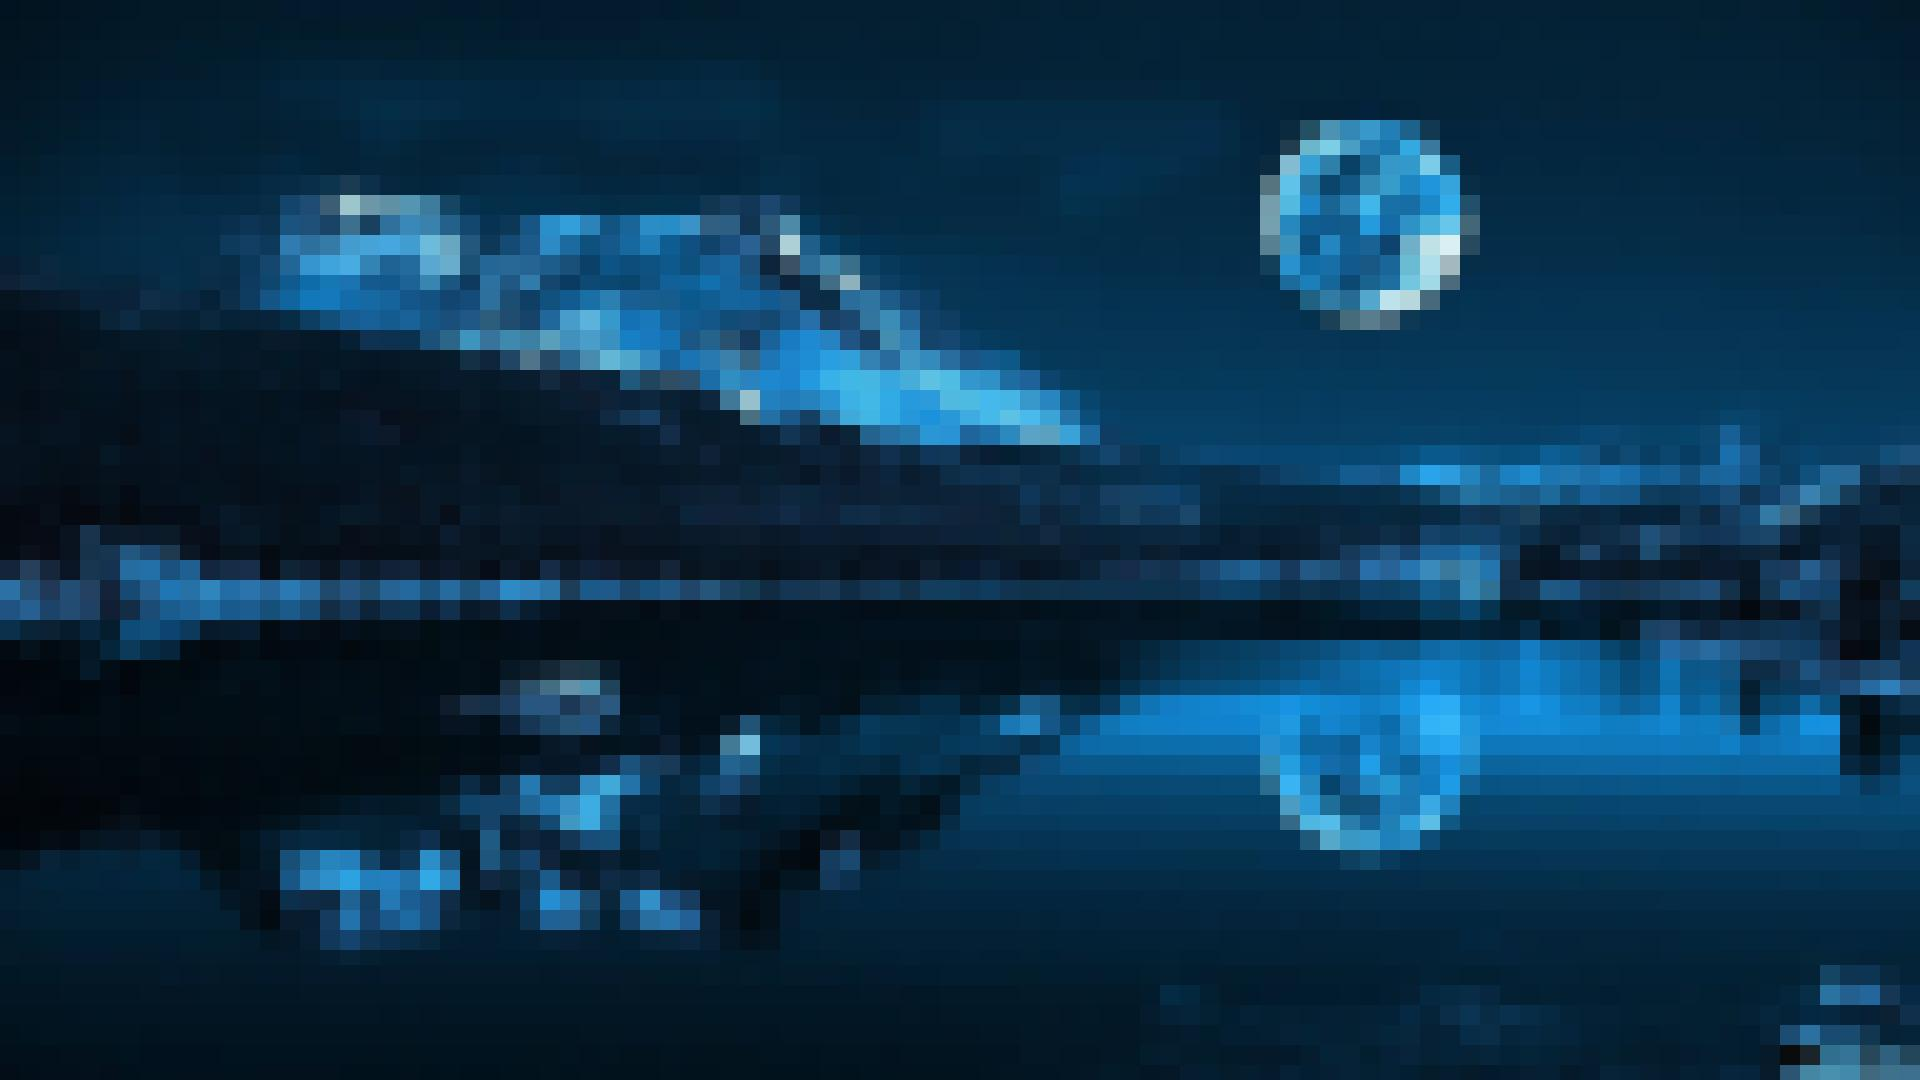
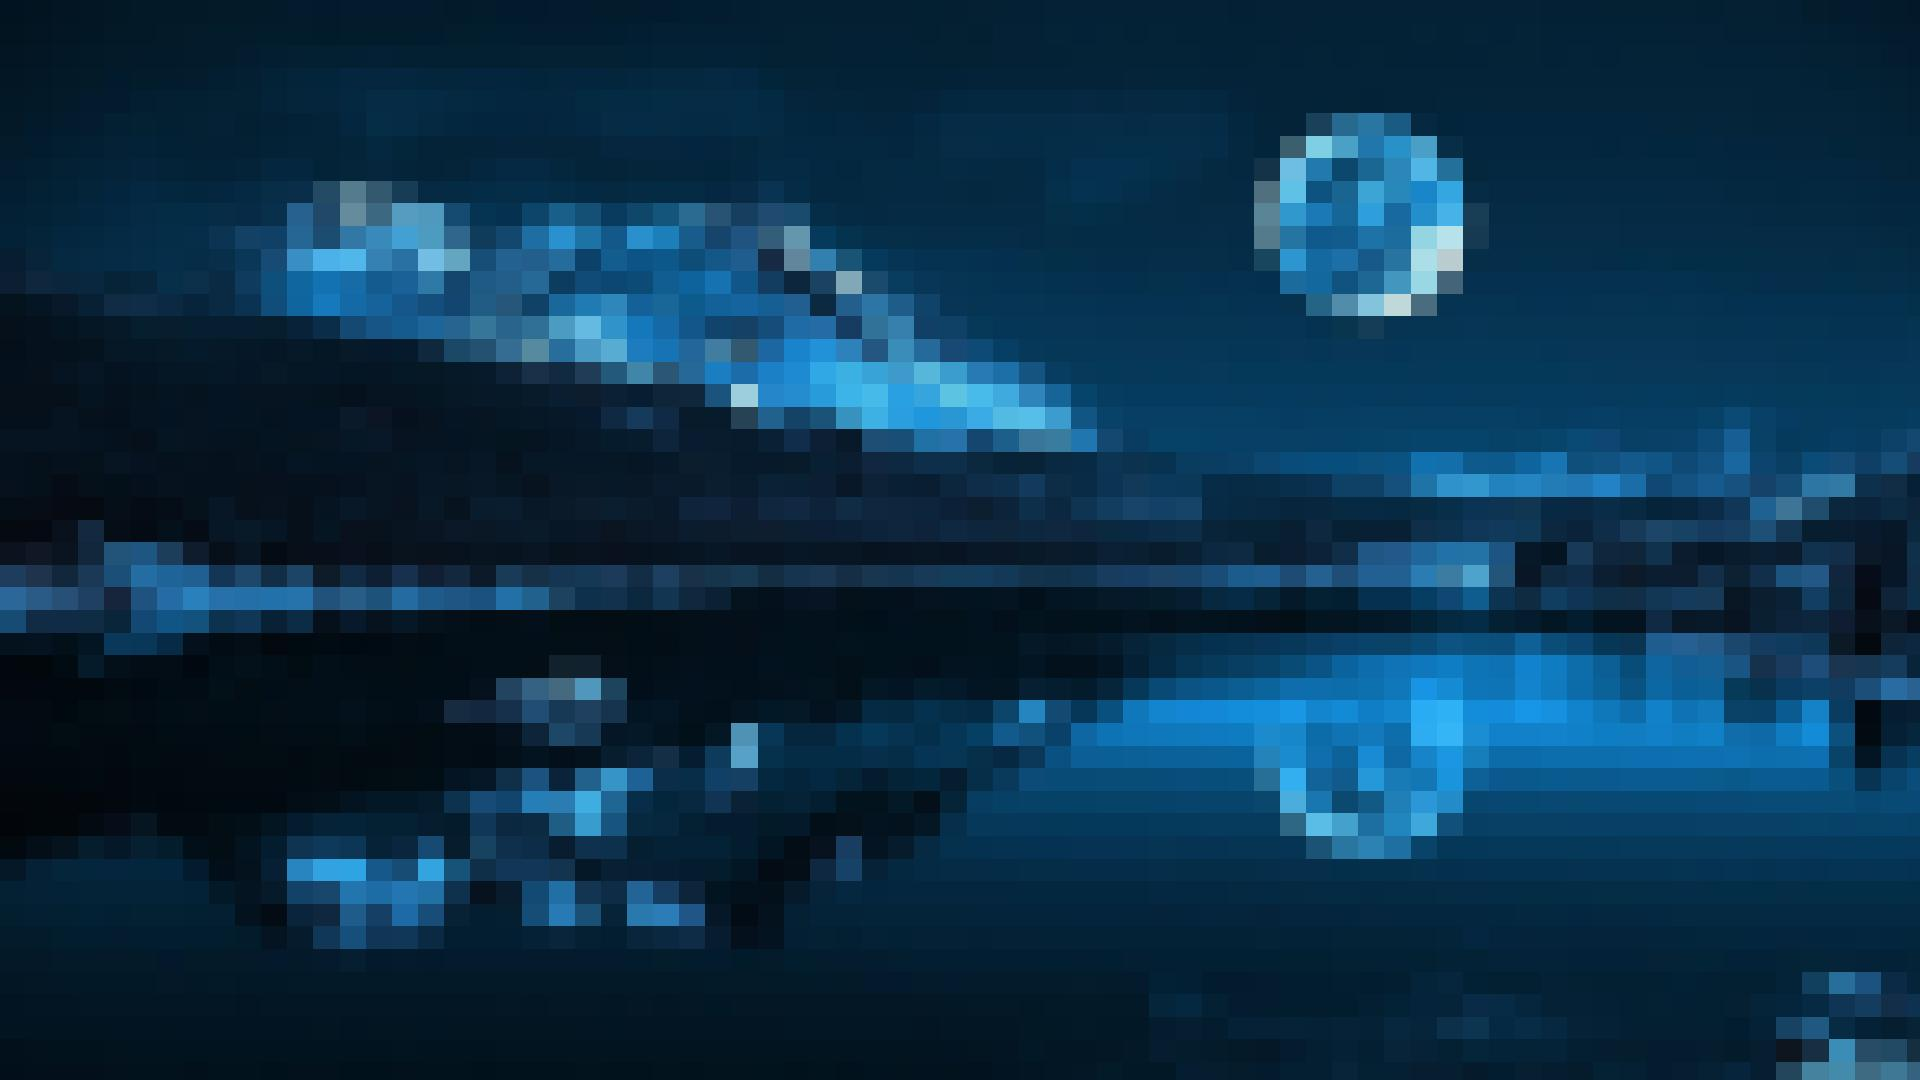
Resized image

diff --git a/src/main/java/Program.java b/src/main/java/Program.java
@@ -21,10 +21,9 @@ public class Program {
     public static void processImage(String fileName, int size, String mode) {
         // Frame and label to show the image
         JFrame frame = new JFrame("Processing...");
-        frame.setDefaultCloseOperation(JFrame.EXIT_ON_CLOSE);
         JLabel label = new JLabel();
-        JScrollPane scrollPane = new JScrollPane(label);
-        frame.getContentPane().add(scrollPane, BorderLayout.CENTER);
+        frame.add(label);
+        frame.setDefaultCloseOperation(JFrame.EXIT_ON_CLOSE);
 
         SwingWorker<Void, BufferedImage> worker = new SwingWorker<>() {
             @Override
@@ -37,6 +36,10 @@ public class Program {
                     // Get the screen dimensions
                     int screenWidth = Toolkit.getDefaultToolkit().getScreenSize().width;
                     int screenHeight = Toolkit.getDefaultToolkit().getScreenSize().height;
+
+                    // Calculate the target width and height to fit the image on the screen
+                    final int targetHeight = Math.min(originalImage.getHeight(), screenHeight);
+                    final int targetWidth = Math.min(originalImage.getWidth(), screenWidth);
 
                     // Set the size of the frame
                     frame.setSize(screenWidth, screenHeight);
@@ -97,7 +100,7 @@ public class Program {
                                     }
 
                                     // send image to the event dispatch thread for processing
-                                    publish(deepCopy(originalImage)); // deepCopy to avoid references
+                                    publish(resizeImage(originalImage, targetWidth, targetHeight)); // deepCopy to avoid references
                                 }
                             }
                         });
@@ -128,16 +131,17 @@ public class Program {
                 // Update the UI with the latest processed image
                 label.setIcon(new ImageIcon(chunks.get(chunks.size() - 1)));
             }
-
-            private BufferedImage deepCopy(BufferedImage original) {
-                BufferedImage copy = new BufferedImage(original.getWidth(), original.getHeight(), original.getType());
-                Graphics g = copy.getGraphics();
-                g.drawImage(original, 0, 0, null);
-                g.dispose();
-                return copy;
-            }
         };
 
         worker.execute();
+    }
+
+    private static BufferedImage resizeImage(BufferedImage originalImage, int targetWidth, int targetHeight) {
+        Image resultingImage = originalImage.getScaledInstance(targetWidth, targetHeight, Image.SCALE_DEFAULT);
+        BufferedImage scaledImage = new BufferedImage(targetWidth, targetHeight, originalImage.getType());
+        Graphics2D g2d = scaledImage.createGraphics();
+        g2d.drawImage(resultingImage, 0, 0, null);
+        g2d.dispose();
+        return scaledImage;
     }
 }
